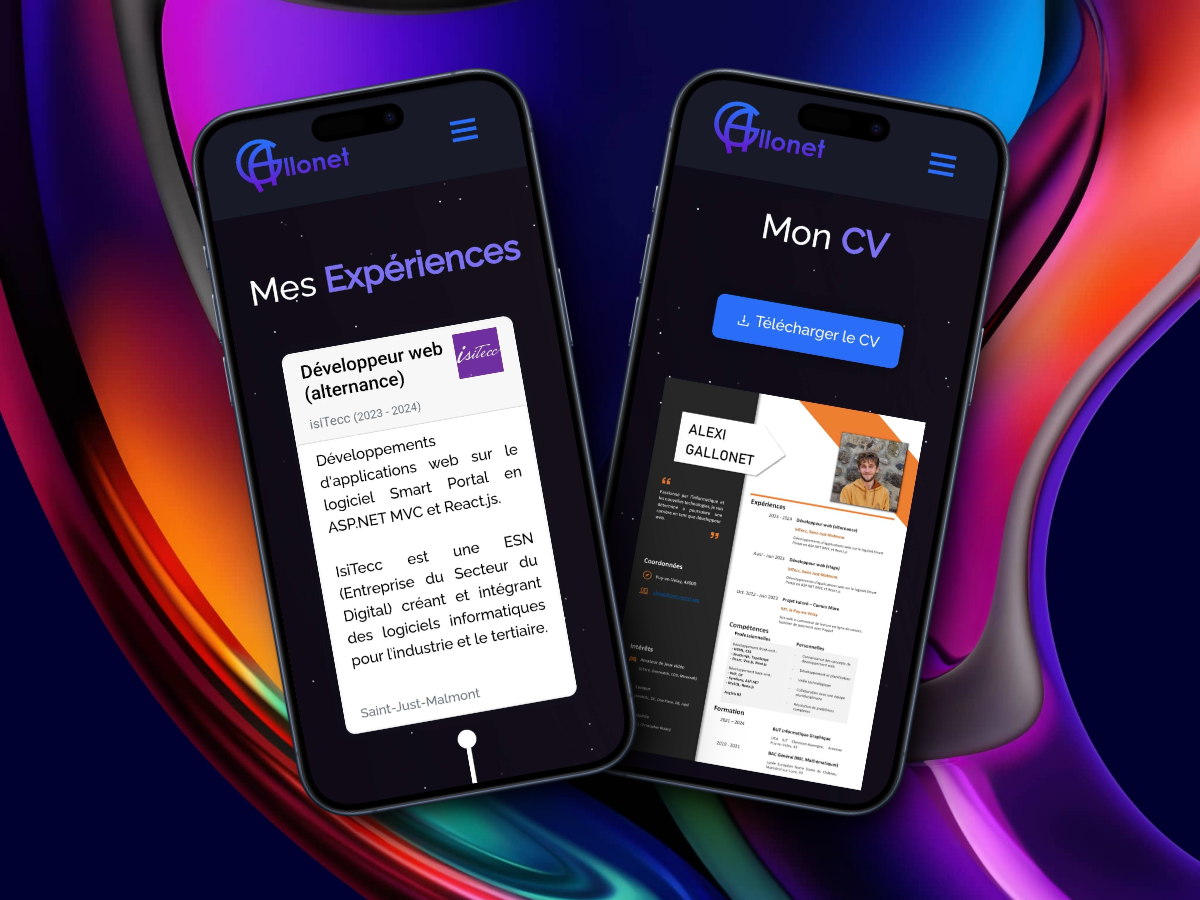
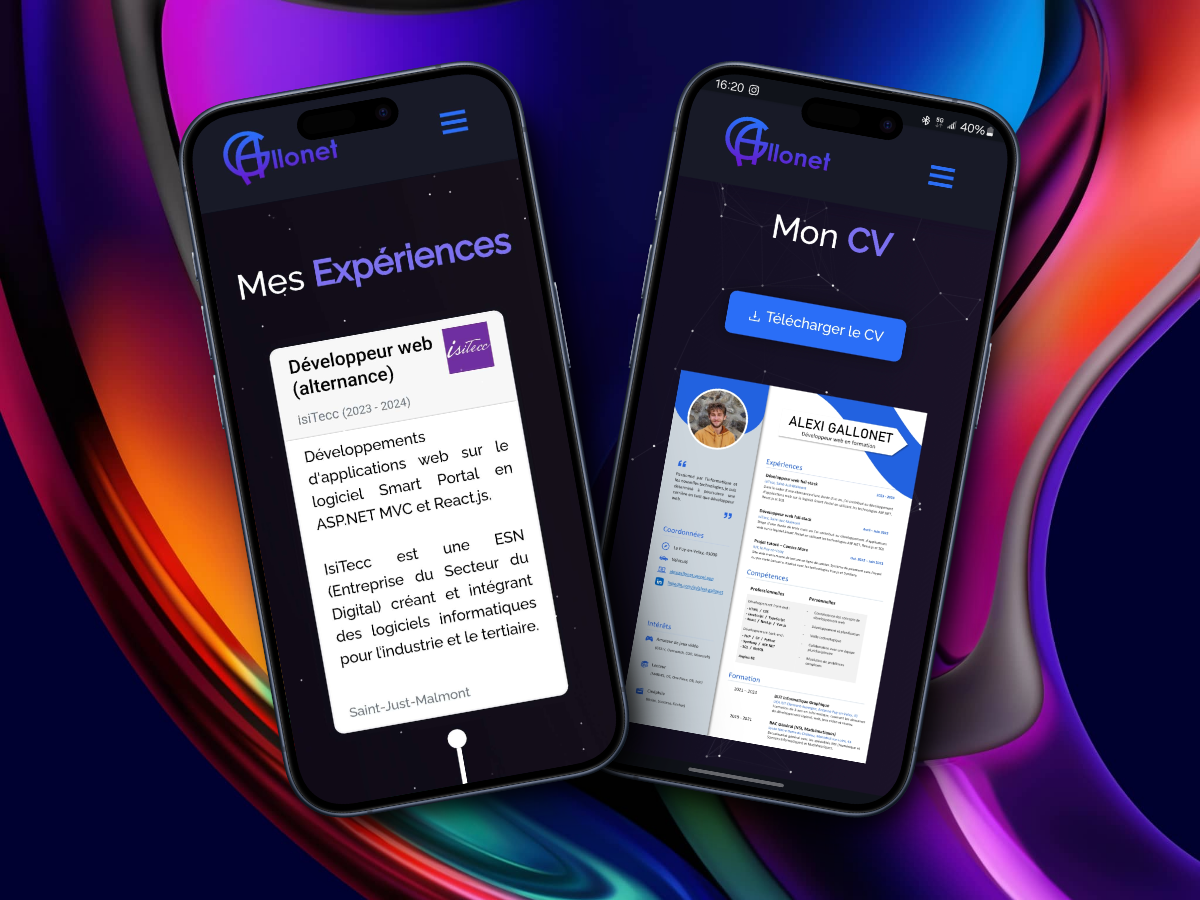
Update mail adress + replace image

Changed region(s): [[0.1233, 0.0622, 0.8633, 0.9022], [0.6167, 0.2178, 0.74, 0.28], [0.2775, 0.9022, 0.3083, 0.9333]]

diff --git a/src/components/Contact.js b/src/components/Contact.js
@@ -49,12 +49,12 @@ const Contact = () => {
             </div>
             <div className="social_line" data-aos="fade-down" data-aos-duration="3000">
               <div className="social_link" style={socialLinkStyle3}>
-                <a href="mailto:alexigallonet@gmail.com" target="_blank" rel="noreferrer">
+                <a href="mailto:contact@alexigallonet.com" target="_blank" rel="noreferrer">
                   <img src="téléchargement (2).svg" width="12%" alt="how contact me" />
                 </a>
                 <div className="social_text">
-                  <a href="mailto:alexigallonet@gmail.com" target="_blank" rel="noreferrer">
-                    <span>alexigallonet@gmail.com</span>
+                  <a href="mailto:contact@alexigallonet.com" target="_blank" rel="noreferrer">
+                    <span>contact@alexigallonet.com</span>
                   </a>
                 </div>
               </div>
